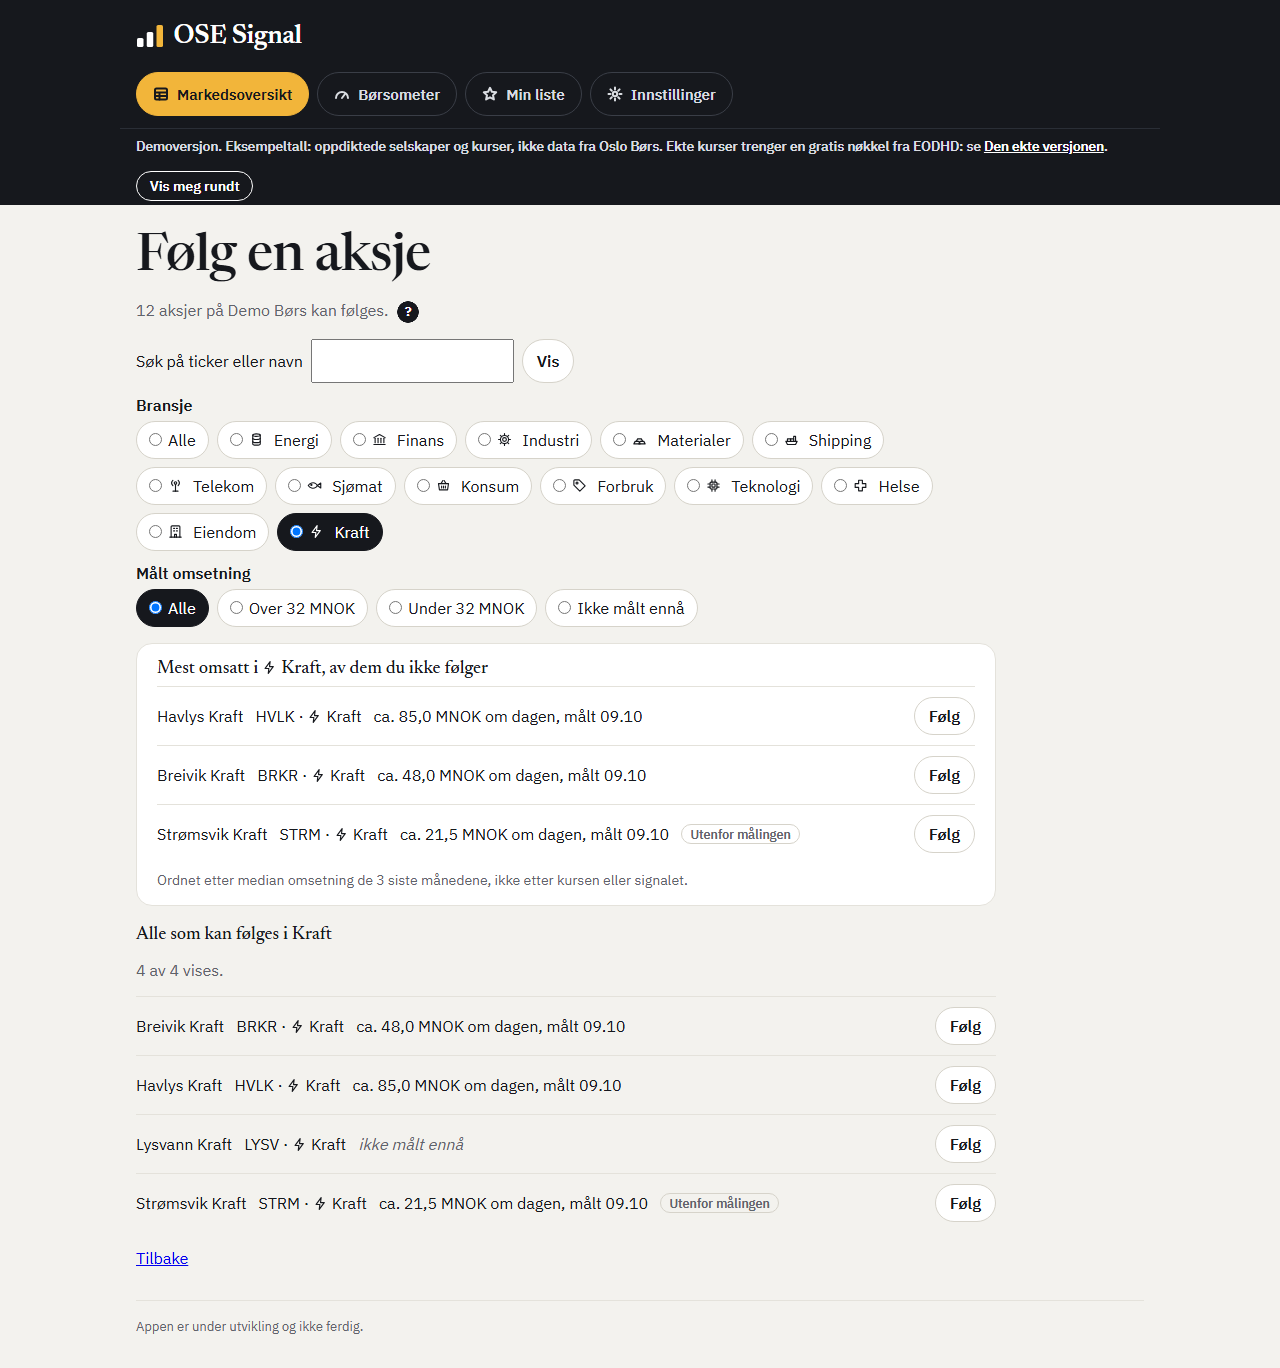
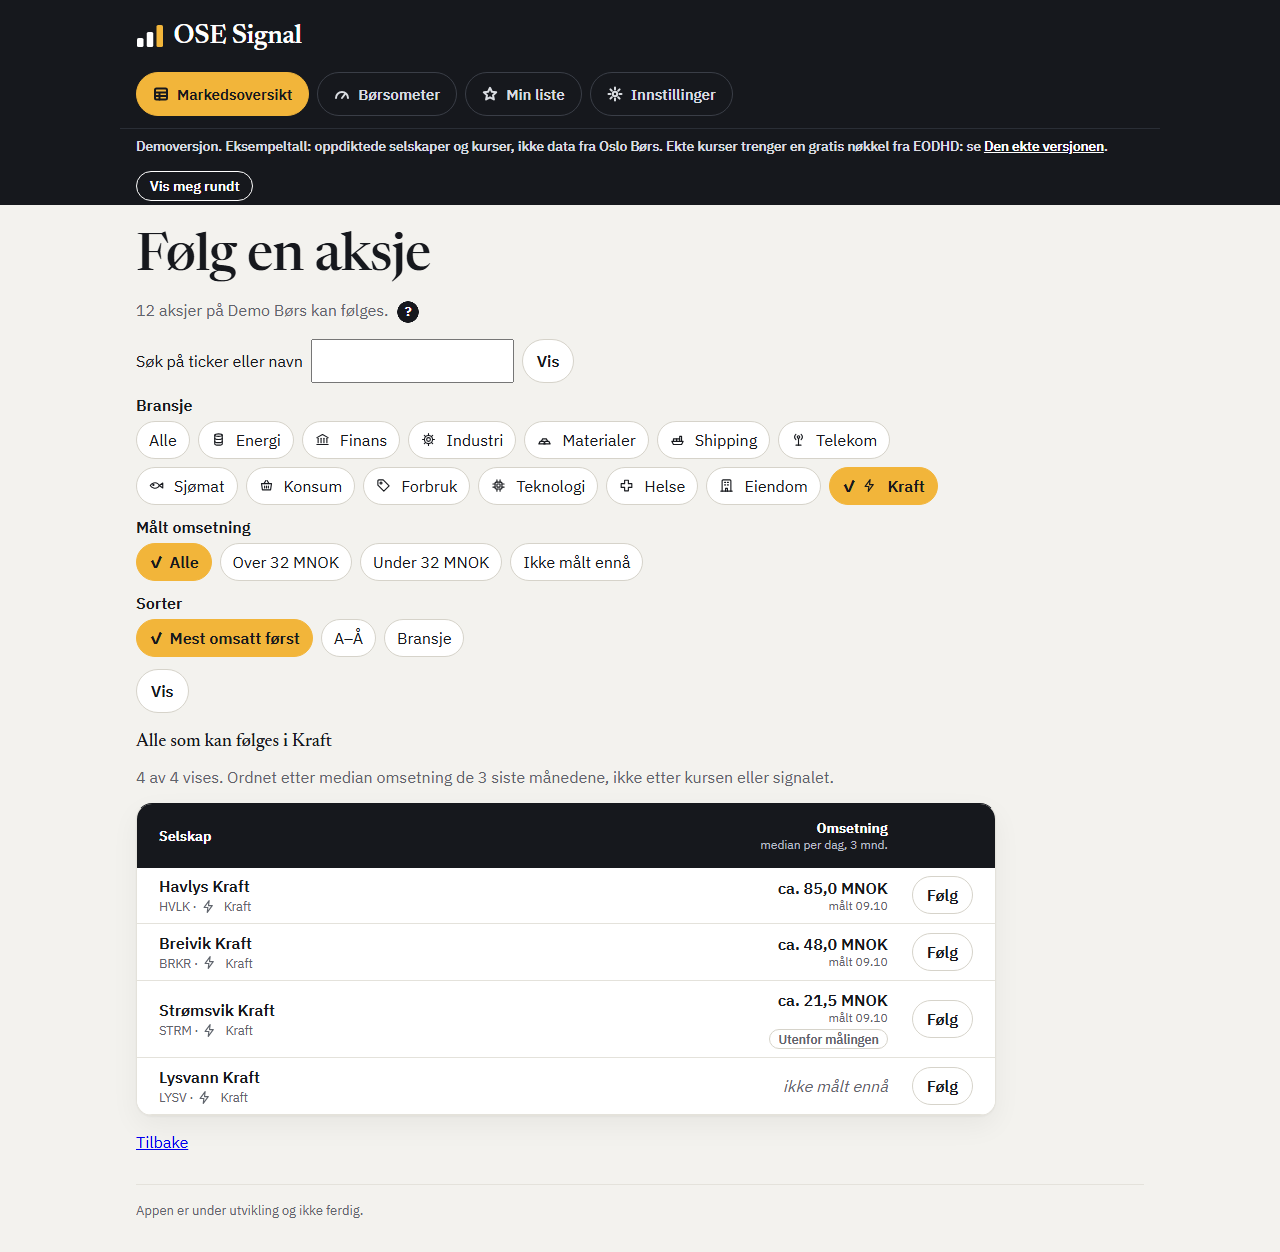
Tillegg 5 til 8.22: «Følg en aksje» og notatene ved 390 px, og bildene
Svaret 10.11 kl. 22:55: to nye bilder fra demoen ved 390 px, tatt som de
andre med DevTools-protokollen: «Følg en aksje» med Kraft valgt, hele
siden (1573 px), og «Mine notater» på aksjesiden for BRFE som et utsnitt
(1354 px), fordi hele siden er for høy. De står i README-en etter de
andre bildene ved 390 px, med alt-tekst og undertekst, og i
«Mappestruktur» (regel 19). Alle bildene er tatt på nytt etter tillegg
3: «Din egen liste» er 1454 px (var 1714) og «Følg en aksje» 1252 px
(var 1368). Avtrykkene er regnet ut på nytt.

diff --git a/tests/test_docker.py b/tests/test_docker.py
@@ -1330,7 +1330,9 @@ HOEYDE_PAA_BILDET = 1864
 # er tatt paa nytt.
 # Flettingen av main (8.23, del A) inn i 8.22 11.11: avtrykkene er regnet ut paa nytt, og bildene
 # er tatt paa nytt.
[1 lines of base64/hex data omitted]
+# Tillegg 3 og 5 til 8.22 (svarene 10.11 kl. 22:44 og 22:55): avtrykkene er regnet ut paa nytt, og
+# bildene er tatt paa nytt.
[1 lines of base64/hex data omitted]
 SLIK_TAS_BILDET = (
     "Oversikten er endret, så skjermbildet viser noe annet enn demoen. Ta "
     f"{SKJERMBILDET} på nytt etter «Bildet» i spesifikasjonen 3.3b: demobasen i en "
@@ -1778,7 +1780,9 @@ HOEYDE_PAA_AKSJESIDEN = 2258
 # er tatt paa nytt.
 # Flettingen av main (8.23, del A) inn i 8.22 11.11: avtrykkene er regnet ut paa nytt, og bildene
 # er tatt paa nytt.
[1 lines of base64/hex data omitted]
+# Tillegg 3 og 5 til 8.22 (svarene 10.11 kl. 22:44 og 22:55): avtrykkene er regnet ut paa nytt, og
+# bildene er tatt paa nytt.
[1 lines of base64/hex data omitted]
 SLIK_TAS_AKSJESIDEN = (
     "Aksjesiden er endret, så bildet av den viser noe annet enn demoen. Ta "
     f"{AKSJESIDEBILDET} på nytt med fremgangsmåten i spesifikasjonen 3.3b, mot /aksje/BRFE: "
@@ -1815,7 +1819,8 @@ FILENE_BAK_INVESTORSIDEN = (
     "src/static/investorsider/bobler.json",
 )
 # Story 8.22 (gjennomgangen, VG2, og tillegget 10.11 kl. 17:16): «Følg en aksje»
-# med Kraft valgt i demoen, med forslagene, filteret og lista.
+# med Kraft valgt i demoen, med filteret og lista. Tillegg 3: sorteringen og
+# tabellen i stedet for forslagene.
 FILENE_BAK_FOLG = (*FILENE_BAK_AKSJESIDEN, "src/templates/folg.html", "src/static/hjelp.js")
 TOPPEN_AV_OVERSIKTEN = "docs/appen/oversikten-topp-demo.png"
 DE_NYE_BILDENE = {
@@ -1846,6 +1851,11 @@ DE_NYE_BILDENE = {
     # Gruppens ønske 09.11 kl. 22:01: investorsiden for BRFE ved 390 px, sist
     # blant bildene ved 390 px, hele siden (1117 px).
     "docs/appen/investorsiden-brfe-390-demo.png": ("/investorside/BRFE", 390, 1117, FILENE_BAK_INVESTORSIDEN),
+    # Tillegg 5 til 8.22 (svaret 10.11 kl. 22:55): «Følg en aksje» med Kraft valgt ved 390 px, hele
+    # siden, og «Mine notater» på aksjesiden for BRFE ved 390 px, bare delen (id-en mine-notater),
+    # klippet ut med 16 px over og under, fordi hele aksjesiden er for høy. Etter de andre ved 390 px.
+    "docs/appen/folg-en-aksje-390-demo.png": ("/folg?bransje=Kraft", 390, 1573, FILENE_BAK_FOLG),
+    "docs/appen/notatene-brfe-390-demo.png": ("/aksje/BRFE", 390, 1354, FILENE_BAK_AKSJESIDEN),
     # Story 2.12: «Din egen liste» i Min liste, bare delen (id-en
     # din-egen-liste), klippet ut med 16 px over og under.
     # Story 8.11: 1216, med «Start fra en ferdig liste» nederst.
@@ -1855,11 +1865,13 @@ DE_NYE_BILDENE = {
     # Story 8.22: 1628, med de tre stegkortene og 11 ferdige lister i demoen.
     # Tillegg 4 (svaret 10.11 kl. 22:50): 1634, med statusen og «Slik bytter du nøkkel» i steg 2.
     # Gjennomgangen av tillegg 4: 1714, med teksten for Docker i «Slik bytter du nøkkel».
-    "docs/appen/din-egen-liste-demo.png": ("/min-liste", 1280, 1714, FILENE_BAK_MIN_LISTE),
+    # Tillegg 3 (svarene 10.11 kl. 22:44): 1454, med én knapp per bransje i stedet for lister. Var 1714.
+    "docs/appen/din-egen-liste-demo.png": ("/min-liste", 1280, 1454, FILENE_BAK_MIN_LISTE),
     # Story 8.22: «Følg en aksje» i demoen med Kraft valgt, hele siden (1326 px), sist i knappen.
     # Flettingen av main (8.9, «Vis meg rundt») inn i 8.22: 1368. Bekreftelsen sier «Demo Børs» i
     # demoen (folg.html); bildet er byte for byte det samme.
-    "docs/appen/folg-en-aksje-demo.png": ("/folg?bransje=Kraft", 1280, 1368, FILENE_BAK_FOLG),
+    # Tillegg 3: 1252, med sorteringen og tabellen i stedet for forslagskortet. Var 1368.
+    "docs/appen/folg-en-aksje-demo.png": ("/folg?bransje=Kraft", 1280, 1252, FILENE_BAK_FOLG),
     # Story 8.21 (tillegg 2, gruppens svar 10.11 kl. 15:57): «Mine notater» på
     # aksjesiden for BRFE og samlet i Min liste, bare delen (id-en
     # mine-notater), klippet ut med 16 px over og under, og Innstillinger med
@@ -1982,18 +1994,20 @@ DE_NYE_BILDENE = {
 # Flettingen av main (8.24) inn i 8.22: alle bildene ble tatt paa nytt. Notatene i Min liste er nytt med
 # samme hoeyde (1346); de andre er byte for byte de samme.
 AVTRYKK_BAK_DE_NYE_BILDENE = {
[26 lines of base64/hex data omitted]
 }
 SLIK_TAS_DE_NYE_BILDENE = (
     "Siden bak {bildet} er endret, så bildet viser noe annet enn demoen. Ta det på nytt som "
@@ -3653,7 +3667,8 @@ class TestReadmeForNybegynnere:
         # med investorsiden ved 390 px i punktet for docs/appen/.
         # Flettingen av de fem storyene 10.11: «Din egen liste» og investorsiden ved 1280 px (regel 19).
         # Story 8.21 (tillegg 2): 46, med de tre nye bildene i docs/appen/.
-        assert len(re.findall(r"\]\(", del_)) == len(lenker) == 46, lenker
+        # Tillegg 5 til 8.22: 48, med de to nye bildene ved 390 px.
+        assert len(re.findall(r"\]\(", del_)) == len(lenker) == 48, lenker
         sporet = _git_sporet()
         for tekst, maal in lenker:
             # Maalet er stien i teksten, relativ og uten «..» (BH4, ECH3).
@@ -4112,7 +4127,8 @@ AVTRYKK_I_PILENE = {
     # Flettingen av de fem storyene 10.11 (regel 19): «Din egen liste» og
     # investorsiden ved 1280 px i punktet for docs/appen/. Var bea5b6e1....
     # Story 8.21 (tillegg 2): og de tre nye bildene. Var cd526f3e....
[1 lines of base64/hex data omitted]
+    # Tillegg 5 til 8.22 (regel 19): «Følg en aksje» og notatene for BRFE ved 390 px. Var e4171fa9....
[1 lines of base64/hex data omitted]
 }
 
 # Story 3.5g (gruppens svar 26.10 kl. 23:00): sha256 av innholdet i de nye

diff --git a/README.md b/README.md
@@ -36,6 +36,12 @@ OSE Signal viser 15 aksjer på Oslo Børs som omsettes mye, samlet i én oversik
 ![Investorsiden for Brattfjell Energi (BRFE) i demoen på en mobil, 390 px bred, med logoen, en tegning laget av KI og teksten om at selskapet er oppdiktet, med oppdiktede selskaper («Eksempeltall»), ikke data fra Oslo Børs](docs/appen/investorsiden-brfe-390-demo.png)
 *Investorsiden for BRFE i demoen ved 390 px, som på en mobil, med oppdiktede selskaper («Eksempeltall»).*
 
+![«Følg en aksje» i demoen på en mobil, 390 px bred, med bransjen Kraft valgt, brikkene for filteret og sorteringen og tabellen med «Følg» på hver rad, med oppdiktede selskaper («Eksempeltall»), ikke data fra Oslo Børs](docs/appen/folg-en-aksje-390-demo.png)
+*«Følg en aksje» i demoen ved 390 px, som på en mobil, med Kraft valgt og «Mest omsatt først», med oppdiktede selskaper («Eksempeltall»).*
+
+![«Mine notater» på aksjesiden for Brattfjell Energi (BRFE) i demoen på en mobil, 390 px bred: skjemaet, to oppdiktede notater med «Etterpå» og et tenkt kjøp og salg i prosent, med oppdiktede selskaper («Eksempeltall»), ikke data fra Oslo Børs](docs/appen/notatene-brfe-390-demo.png)
+*«Mine notater» på aksjesiden for BRFE i demoen ved 390 px, som på en mobil, bare delen med notatene, med oppdiktede selskaper («Eksempeltall»).*
+
 ![«Din egen liste» i Min liste i demoen: de tre stegene som kort, med kallene lista bruker, «Bytt ut» ved hver aksje og én knapp per bransje for de ferdige listene, med oppdiktede selskaper («Eksempeltall»), ikke data fra Oslo Børs](docs/appen/din-egen-liste-demo.png)
 *«Din egen liste» i Min liste i demoen, med de tre stegene som kort, kallene lista bruker, «Bytt ut» ved hver aksje og «Start fra en ferdig liste» nederst, med én knapp per bransje og siden «Er du sikker?» før lista byttes. På oversikten står «Dine egne aksjer» med «+ Følg en aksje», og lista kan ha opptil 18 aksjer, med oppdiktede selskaper («Eksempeltall»).*
 
@@ -248,7 +254,7 @@ Hver story som endrer koden, leveres med tester. Det er vårt svar på hvordan K
 - [`docs/bilder/readme/`](docs/bilder/readme/) — de tre skjermbildene i [`docs/installasjon.md`](docs/installasjon.md): [`engine-running.png`](docs/bilder/readme/engine-running.png), [`github-download-zip.png`](docs/bilder/readme/github-download-zip.png) og [`powershell-mappa.png`](docs/bilder/readme/powershell-mappa.png)
 - [`docs/bilder/investorsider/`](docs/bilder/investorsider/) — de 15 tegningene laget av KI til investorsidene i demoen, godkjent 24.10: SVG-ene, forhåndsvisningene, [`LESMEG.md`](docs/bilder/investorsider/LESMEG.md) og [`bobler.json`](docs/bilder/investorsider/bobler.json)
 - [`docs/skisser/2026-11-06/`](docs/skisser/2026-11-06/) — skissene av aksjesiden og børsometeret laget av KI i chatten 06.11, etter gruppens gjennomgang, med oppdiktede selskaper og tall: fem PNG-er og [`docs/skisser/2026-11-06/LESMEG.md`](docs/skisser/2026-11-06/LESMEG.md) med svarene de bygger på. Bygget 07.11 i 8.20a, 8.20b og 3.4h
-- [`docs/appen/`](docs/appen/) — bilder og senere video av appen, bare av demoen: [`oversikten-topp-demo.png`](docs/appen/oversikten-topp-demo.png), [`oversikten-demo.png`](docs/appen/oversikten-demo.png), [`aksjesiden-brfe-demo.png`](docs/appen/aksjesiden-brfe-demo.png), [`investorsiden-brfe-demo.png`](docs/appen/investorsiden-brfe-demo.png), [`boersometeret-demo.png`](docs/appen/boersometeret-demo.png), [`min-liste-demo.png`](docs/appen/min-liste-demo.png), [`din-egen-liste-demo.png`](docs/appen/din-egen-liste-demo.png), [`oversikten-390-demo.png`](docs/appen/oversikten-390-demo.png), [`boersometeret-390-demo.png`](docs/appen/boersometeret-390-demo.png), [`investorsiden-brfe-390-demo.png`](docs/appen/investorsiden-brfe-390-demo.png), [`notatene-brfe-demo.png`](docs/appen/notatene-brfe-demo.png), [`notatene-min-liste-demo.png`](docs/appen/notatene-min-liste-demo.png) og [`innstillinger-demo.png`](docs/appen/innstillinger-demo.png)
+- [`docs/appen/`](docs/appen/) — bilder og senere video av appen, bare av demoen: [`oversikten-topp-demo.png`](docs/appen/oversikten-topp-demo.png), [`oversikten-demo.png`](docs/appen/oversikten-demo.png), [`aksjesiden-brfe-demo.png`](docs/appen/aksjesiden-brfe-demo.png), [`investorsiden-brfe-demo.png`](docs/appen/investorsiden-brfe-demo.png), [`boersometeret-demo.png`](docs/appen/boersometeret-demo.png), [`min-liste-demo.png`](docs/appen/min-liste-demo.png), [`din-egen-liste-demo.png`](docs/appen/din-egen-liste-demo.png), [`oversikten-390-demo.png`](docs/appen/oversikten-390-demo.png), [`boersometeret-390-demo.png`](docs/appen/boersometeret-390-demo.png), [`investorsiden-brfe-390-demo.png`](docs/appen/investorsiden-brfe-390-demo.png), [`folg-en-aksje-390-demo.png`](docs/appen/folg-en-aksje-390-demo.png), [`notatene-brfe-390-demo.png`](docs/appen/notatene-brfe-390-demo.png), [`notatene-brfe-demo.png`](docs/appen/notatene-brfe-demo.png), [`notatene-min-liste-demo.png`](docs/appen/notatene-min-liste-demo.png) og [`innstillinger-demo.png`](docs/appen/innstillinger-demo.png)
 - [`_bmad-output/`](_bmad-output/) — Product Brief, plan, krav og sprintstatus
 - [`.github/`](.github/) — testkjøringen og morgensjekken
 - [`.logs/`](.logs/) — loggene fra øktene med Claude Code, én mappe per bruker, og issues.md i hver mappe med det som gjenstår
